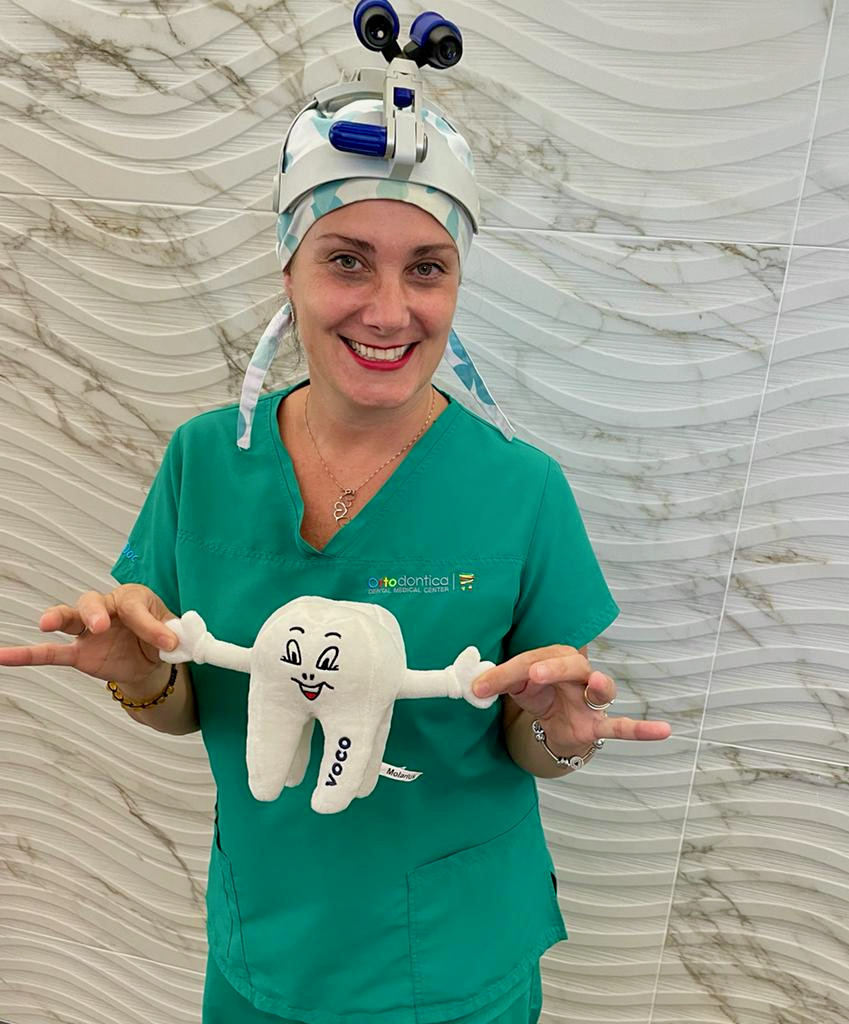
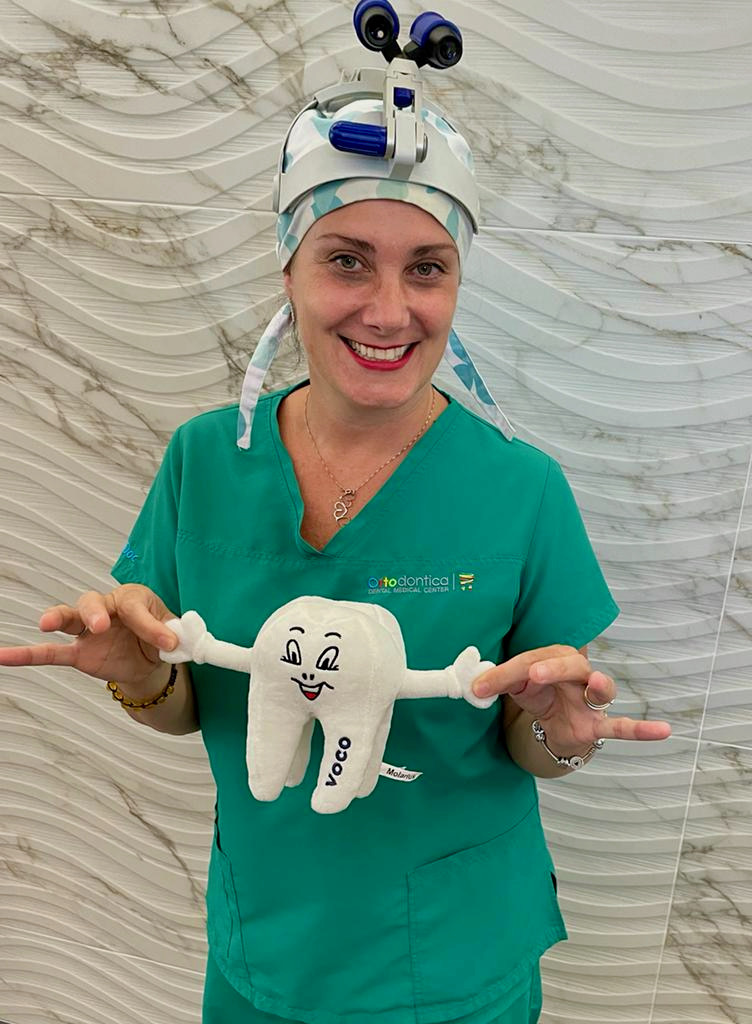
staff

diff --git a/src/index.js b/src/index.js
@@ -132,12 +132,10 @@ function handleCarouselColor() {
 
 function addStaff() {
   staff.forEach(element => {
-    // console.log('add staff', element)
     $('#staffContainer1').append(
       `
       <div class='item team-member'>
-        <div class="team-member-image-container">
-          <img src="/asset/img/staff/${element.img}" alt="Chiara Arienti Dentist"/>
+        <div class="team-member-image-container" style="background-image: url(/asset/img/staff/${element.img});">
         </div>
         <div class='team-member-info'>
           <h3>${element.name.toUpperCase()}</h3>

diff --git a/src/style/components/carousel.scss b/src/style/components/carousel.scss
@@ -47,11 +47,13 @@
       height: 70vh;
       overflow: hidden;
       max-height: 600px;
-    }
 
-    img {
-      width: auto;
-      height: 100%;
+      margin-left: 0;
+      margin-right: 0;
+      background-size: cover;
+      background-attachment: fixed;
+      background-repeat: no-repeat;
+      background-position: center center;
     }
 
     .team-member-info {
